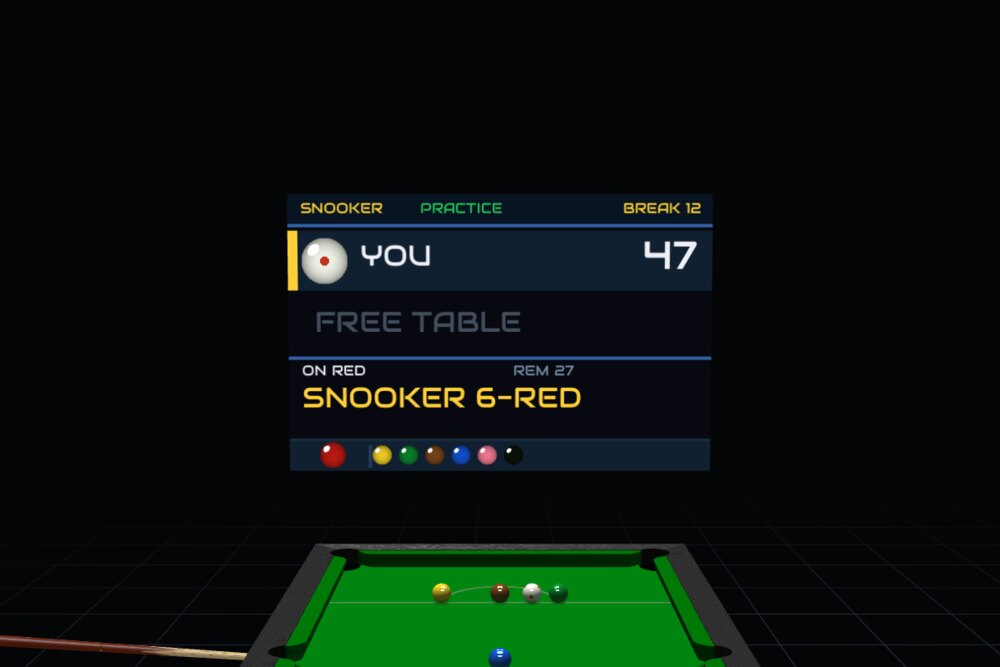
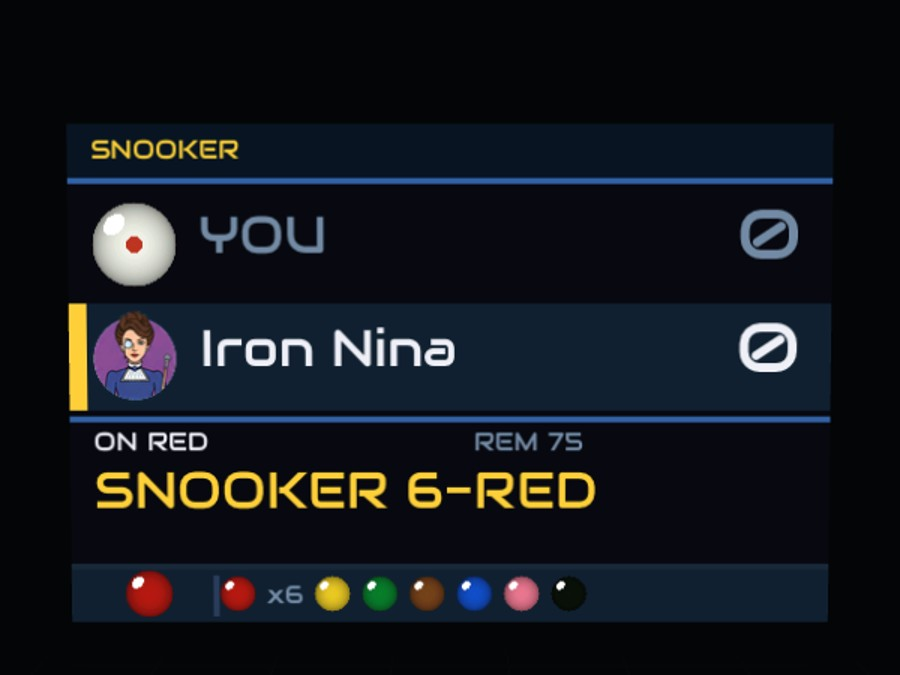
The scoreboard picture is a match, and the physics section says physics
Two things a read of the page caught.

THE REFEREE SECTION talked about scores and both players over a picture of a
PRACTICE table — "FREE TABLE", one name, nothing to score. Every scripted
capture of a frame had the same fault and nobody had noticed, because
cuevr_app_force_start inherits the opponent from the prefs and a fresh profile
is FREE PRACTICE. So a capture that asked for a frame got a practice table,
scoreboard included, whatever the shot was meant to show.

CUEVR_OPP sets it, next to the CUEVR_BREAK hook that was already there for the
same reason. The scoreboard picture is now a real match: two players, the
opponent's portrait, a bar against whoever is at the table, what is on, the
points still available and the balls left. A second capture goes in the controls
section, where the board lists the controls for the player at the table.

"HOW THE BALLS BEHAVE" is now "Physics", which is what it is about and what
somebody looking for it would scan for.

diff --git a/docs/cuevr-guide.html b/docs/cuevr-guide.html
@@ -139,7 +139,7 @@
   <a href="#online">Playing a friend</a>
   <a href="#look">Table and room</a>
   <a href="#cues">Cues</a>
-  <a href="#physics">How the balls behave</a>
+  <a href="#physics">Physics</a>
   <a href="#trouble">Troubleshooting</a>
 </div></nav>
 
@@ -235,6 +235,11 @@
     cue. Holding either side trigger tells the game you are adjusting your hands, not aiming, so
     only the hand travels and the line you have set stays put.
   </div>
+
+  <figure>
+    <img src="img/cuevr/hud-hints.jpg" alt="The scoreboard showing control hints">
+    <figcaption>While it is your turn the board reminds you of the main controls.</figcaption>
+  </figure>
 
   <figure>
     <img src="img/cuevr/controls.jpg" alt="The controls screen">
@@ -405,8 +410,9 @@
 
   <figure>
     <img src="img/cuevr/scoreboard.jpg" alt="The scoreboard above the table">
-    <figcaption>The scoreboard shows both players, the score, whose turn it is, what is on and
-    which balls are left.</figcaption>
+    <figcaption>The scoreboard. Both players with their scores on the right, a yellow bar against
+    whoever is at the table, what is on, the points still available, and the balls left to
+    pot.</figcaption>
   </figure>
 
   <p>At snooker that includes reds and colours in the right order, colours going back on their
@@ -744,9 +750,9 @@
 </section>
 
 <section id="physics">
-  <h2>How the balls behave</h2>
-  <p class="lede">The table is built to behave like a real one, and the numbers behind it come from
-  published measurements of real equipment rather than from guesswork.</p>
+  <h2>Physics</h2>
+  <p class="lede">The table is built to behave like a real one. The numbers in the physics engine
+  come from published measurements of real equipment rather than from guesswork.</p>
 
   <h3>Cushions</h3>
   <p>A cushion returns less of the ball's speed the harder it is hit, so a firm shot comes off the
